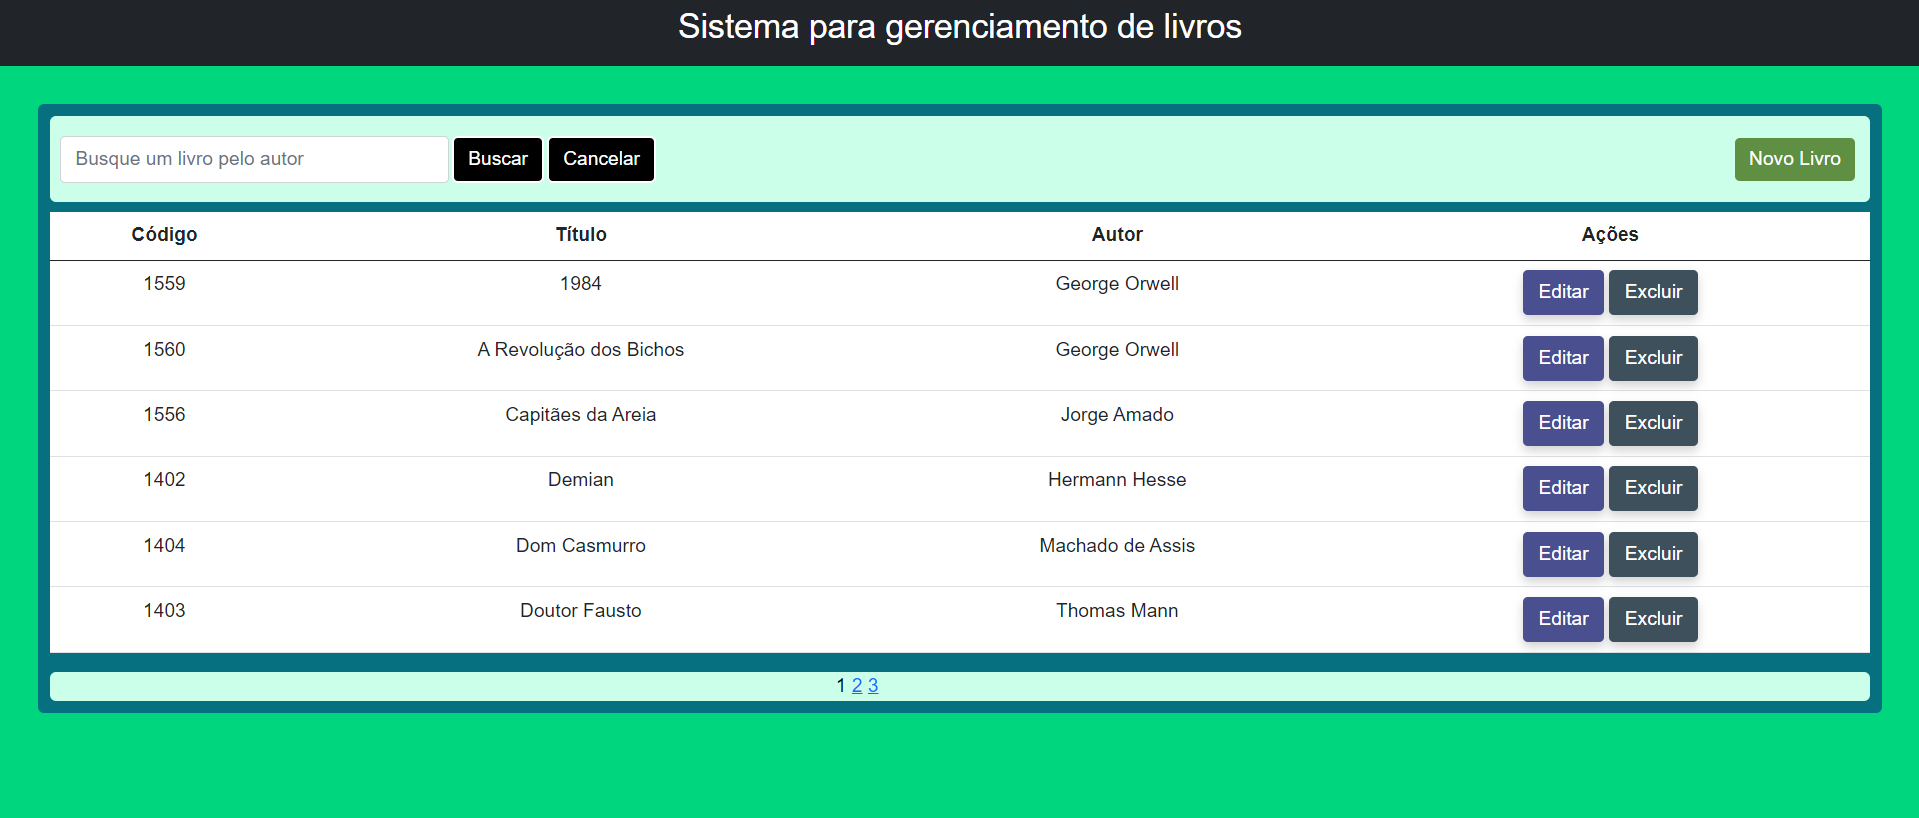
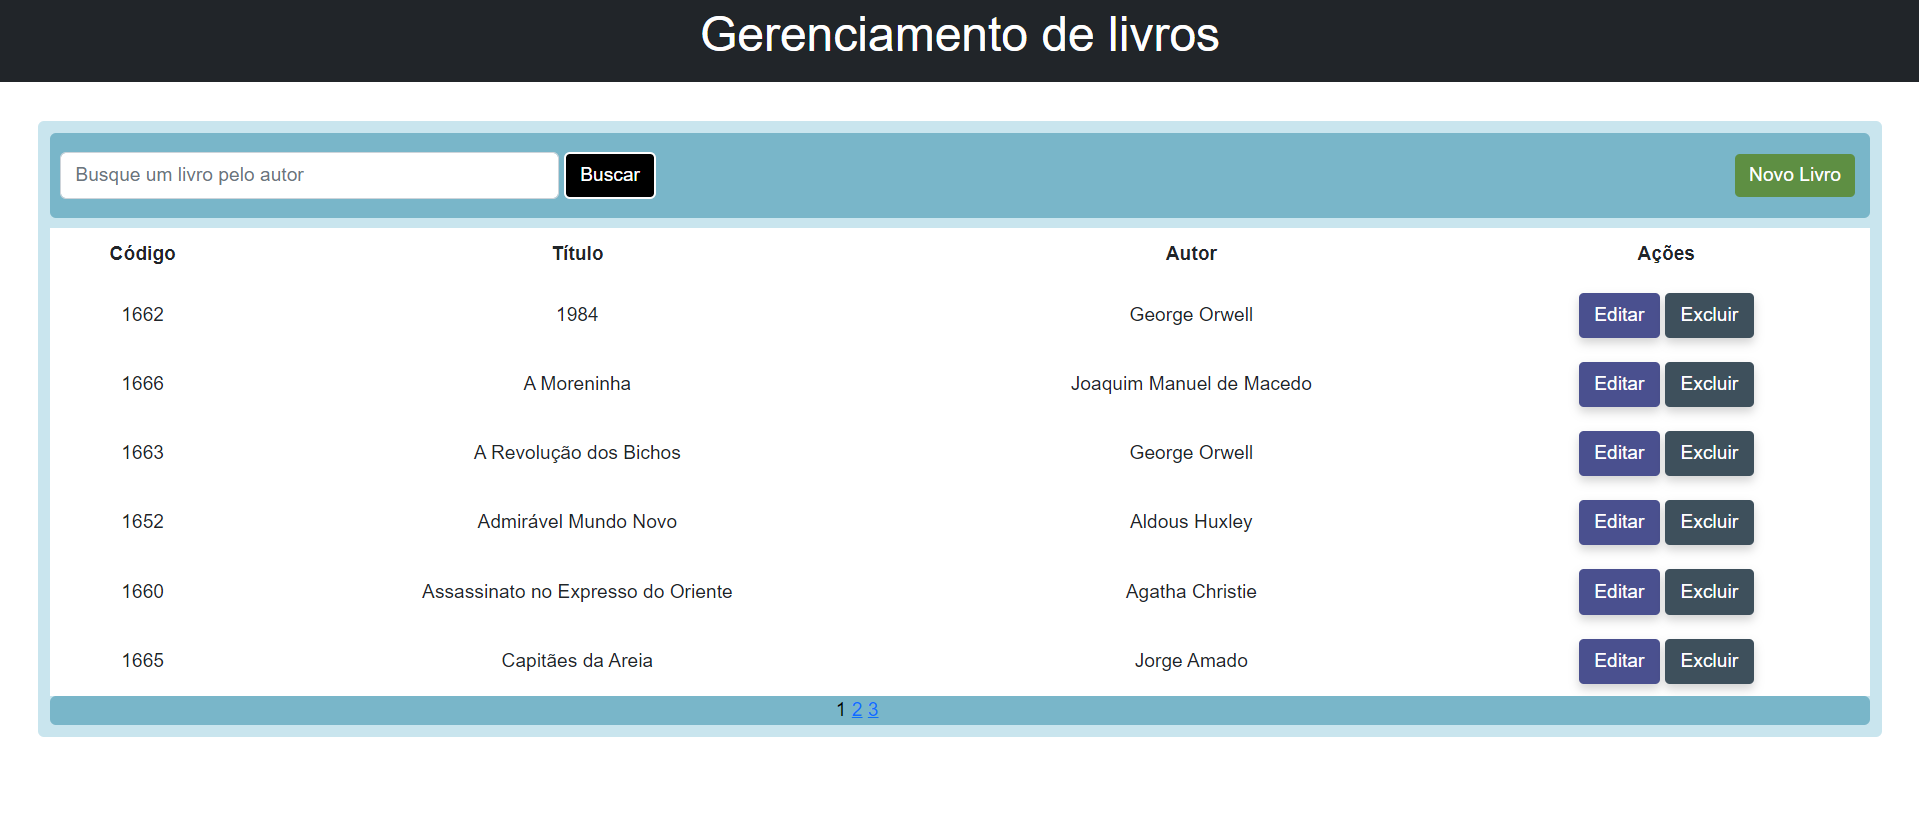
alteração nas fotos do readme

diff --git a/src/main/resources/templates/lista-de-livros.html b/src/main/resources/templates/lista-de-livros.html
@@ -24,7 +24,7 @@
     <div class="collapse navbar-collapse" id="navbarNav">
       <ul class="navbar-nav">
         <li class="nav-item" style="text-align: center;">
-         <h3 style="color: #fff;">Sistema para gerenciamento de livros</h3>
+         <h1 style="color: #fff;">Gerenciamento de livros</h1>
         </li>
       </ul>
     </div>
@@ -40,9 +40,8 @@
 					<div class="input-group">
 						<input type="text" class="form-control" name="autor"
 							placeholder="Busque um livro pelo autor"
-							style="margin-right: 3px; border-radius: 4px;" />
-						<button class="btn btn-outline-warning" id="buscar" type="submit">Buscar</button>
-						<a th:href="@{/}" class="btn btn-dark" id="cancelar" type="submit">Cancelar</a>
+							style="margin-right: 5px; border-radius: 5px;" />
+						<button class="btn btn-outline-success" id="buscar" type="submit">Buscar</button>
 					</div>
 				</form>
 			</div>
@@ -50,39 +49,40 @@
 				class="btn btn-primary" style="margin-left: auto;">Novo Livro</a>
 		</div>
 
-			
-		<table class="table">
-			<thead>
-				<tr>
-					<th>Código</th>
-					<th>Título</th>
-					<th>Autor</th>
-					<th>Ações</th>
-				</tr>
-			</thead>
-			<tbody>
-				<tr th:each="livro : ${livros}">
-					<td id="td1" th:text="${livro.codigo}"></td>
-					<td id="td2" th:text="${livro.titulo}"></td>
-					<td id="td3" th:text="${livro.autor}"></td>
-					<td class="acoes">
+		<div class="table-responsive">
+			<table>
+				<thead>
+					<tr>
+						<th>Código</th>
+						<th>Título</th>
+						<th>Autor</th>
+						<th>Ações</th>
+					</tr>
+				</thead>
+				<tbody>
+					<tr th:each="livro : ${livros}">
+						<td id="td1" th:text="${livro.codigo}" style="white-space: nowrap"></td>
+						<td id="td2" th:text="${livro.titulo}" style="white-space: nowrap;"></td>
+						<td id="td3" th:text="${livro.autor}" style="white-space: nowrap;"></td>
+						<td class="acoes" style="white-space: nowrap;">
 
-						<div>
-							<a class="btn" id="editar"
-								th:href="@{/editar-livro/{codigo}(codigo=${livro.codigo})}">Editar</a>
+							<div>
+								<a class="btn" id="editar"
+									th:href="@{/editar-livro/{codigo}(codigo=${livro.codigo})}">Editar</a>
 
-							<a class="btn" id="excluir"
-								th:href="@{/excluir-livro/{codigo}(codigo=${livro.codigo})}"
-								th:data-confirm-delete="|Você gostaria de excluir o livro ${livro.titulo}?|"
-								th:onclick="if (!confirm(this.getAttribute('data-confirm-delete')))
+								<a class="btn" id="excluir"
+									th:href="@{/excluir-livro/{codigo}(codigo=${livro.codigo})}"
+									th:data-confirm-delete="|Você gostaria de excluir o livro ${livro.titulo}?|"
+									th:onclick="if (!confirm(this.getAttribute('data-confirm-delete')))
 													      return false">Excluir</a>
-													      
-						</div>
-					</td>
-				</tr>
-			</tbody>
-		</table>
-		<div th:if="${totalPages > 1}" style="background-color: #CCFFEA; border-radius: 5px;">
+
+							</div>
+						</td>
+					</tr>
+				</tbody>
+			</table>
+		</div>
+		<div th:if="${totalPages > 1}" style="background-color: #79b6c9; border-radius: 5px;">
 			<div class="row col-sm-10">
 				<div class="col-sm-5"></div>
 				<div class="col-sm-3">

diff --git a/src/main/resources/static/css/novo-livro.css b/src/main/resources/static/css/novo-livro.css
@@ -6,7 +6,6 @@
 }
 
 body{
-	background-color:#00D67D;
 	padding: 1rem;
 }
 
@@ -19,13 +18,13 @@ body{
 	border-radius: 5px;
 	padding-bottom: 5rem;
 	margin-top: 80px;
-	background-color: #066F80;
+	background-color: #79b6c9;
 }
 
 h2{
 	text-align: center;
 	margin-top: 1rem;
-	color: #fff;
+	color: #000000;
 }
 
 form {
@@ -35,6 +34,7 @@ form {
 	width: 500px;
 	margin: 0 auto;
 }
+
 #titulo{
 	margin-bottom: 1rem;
 }
@@ -57,7 +57,7 @@ button{
 	margin-top: 0.5rem;
 }
 .voltar{
-	color: #fff;
+	color: #000000;
 	justify-content: center;
 	text-align: center;
 	display: flex;

diff --git a/src/main/resources/static/css/lista-de-livros.css b/src/main/resources/static/css/lista-de-livros.css
@@ -7,7 +7,6 @@
 }
 
 body {
-	background-color: #00D67D;
     font-family: sans-serif;
 }
 
@@ -113,7 +112,7 @@ table tbody tr td button:hover, table tbody tr td button:focus {
 }
 
 .principal{
-	background-color: #066F80;
+	background-color: #c9e5ee;
 	padding: 10px;
 	text-align: center;
 	border-radius: 5px;
@@ -124,7 +123,7 @@ table tbody tr td button:hover, table tbody tr td button:focus {
 }
 
 .titulo{
-	background-color: #CCFFEA;
+	background-color: #79b6c9;
 	padding: 8px;
 	border-radius: 5px;
 	margin-bottom: 8px;

diff --git a/src/main/resources/static/css/atualizar-livro.css b/src/main/resources/static/css/atualizar-livro.css
@@ -6,7 +6,6 @@
 }
 
 body{
-	background-color:#00D67D;
 	padding: 1rem;
 }
 
@@ -19,13 +18,13 @@ body{
 	border-radius: 5px;
 	padding-bottom: 5rem;
 	margin-top: 80px;
-	background-color: #066F80;
+	background-color: #79b6c9;
 }
 
 h2{
 	text-align: center;
 	margin-top: 1rem;
-	color: #fff;
+	color: #000000;
 }
 
 form {
@@ -57,7 +56,7 @@ button{
 	margin-top: 0.5rem;
 }
 .voltar{
-	color: #fff;
+	color: #000000;
 	justify-content: center;
 	text-align: center;
 	display: flex;

diff --git a/src/main/resources/templates/novo-livro.html b/src/main/resources/templates/novo-livro.html
@@ -15,9 +15,11 @@
 </head>
 <body>
 <div class="div-form">
-	<h2>Cadastre um Livro</h2>
+		<div class="titulo">
+			<h2>Cadastre um Livro</h2>
+		</div>
 
-	<form th:action="@{/salvar-livro}" th:object="${livro}" method="post">
+		<form th:action="@{/salvar-livro}" th:object="${livro}" method="post">
 		<input class="form-control" id="titulo" name="titulo" type="text"
 			th:field="*{titulo}" placeholder="Título do livro"
 			aria-label="default input example"> <input

diff --git a/src/main/java/estudos/springboot/thymeleaf/EstudosSpringbootThymeleafApplication.java b/src/main/java/estudos/springboot/thymeleaf/EstudosSpringbootThymeleafApplication.java
@@ -9,5 +9,4 @@ public class EstudosSpringbootThymeleafApplication {
 	public static void main(String[] args) {
 		SpringApplication.run(EstudosSpringbootThymeleafApplication.class, args);
 	}
-
 }
